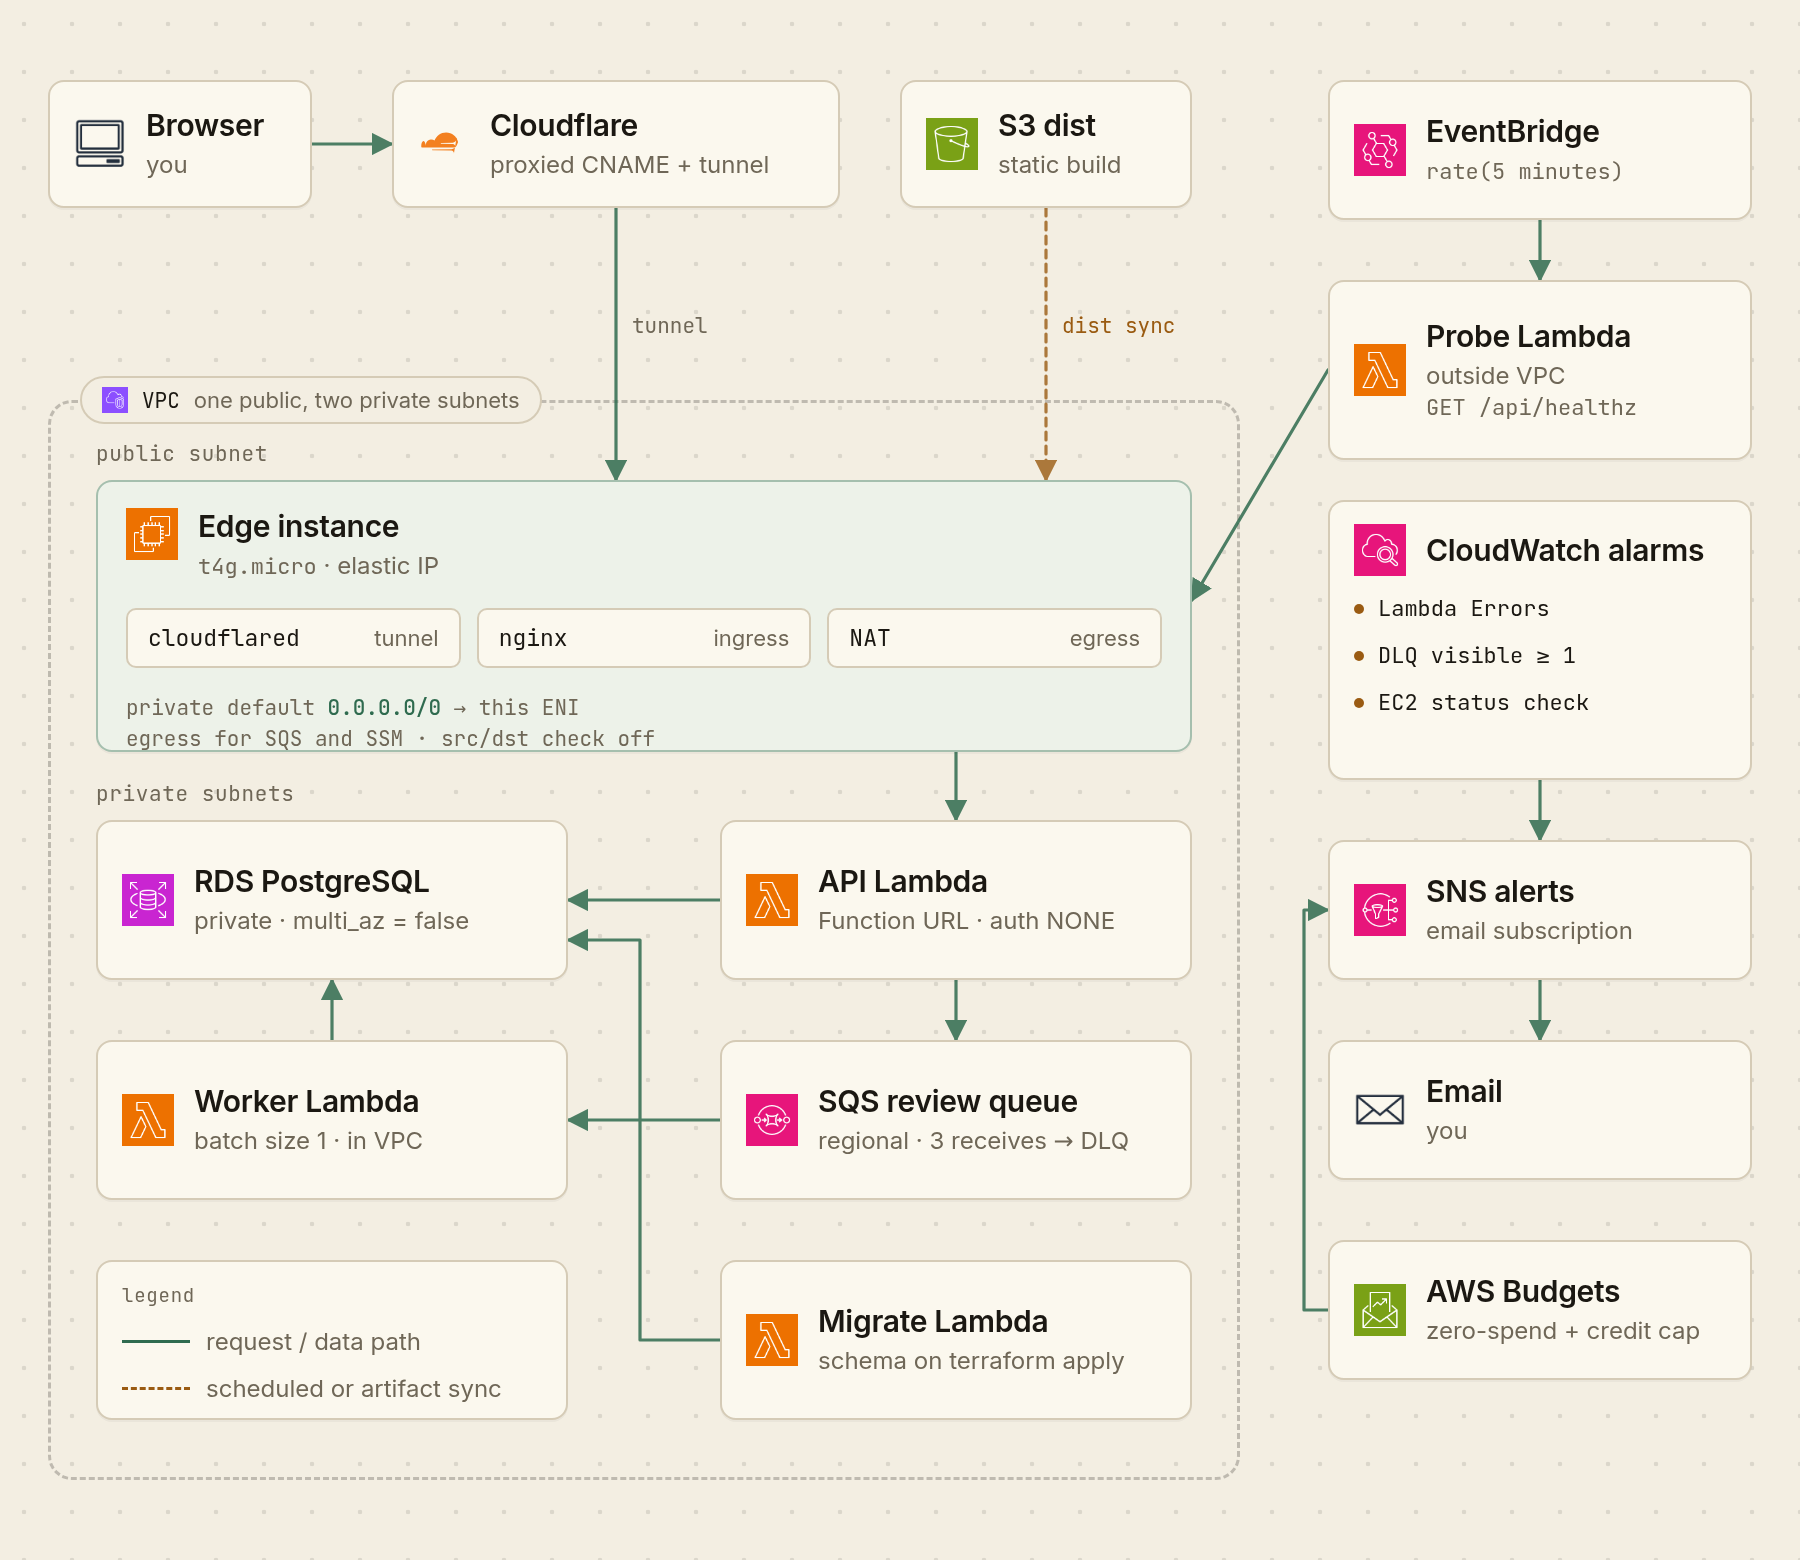
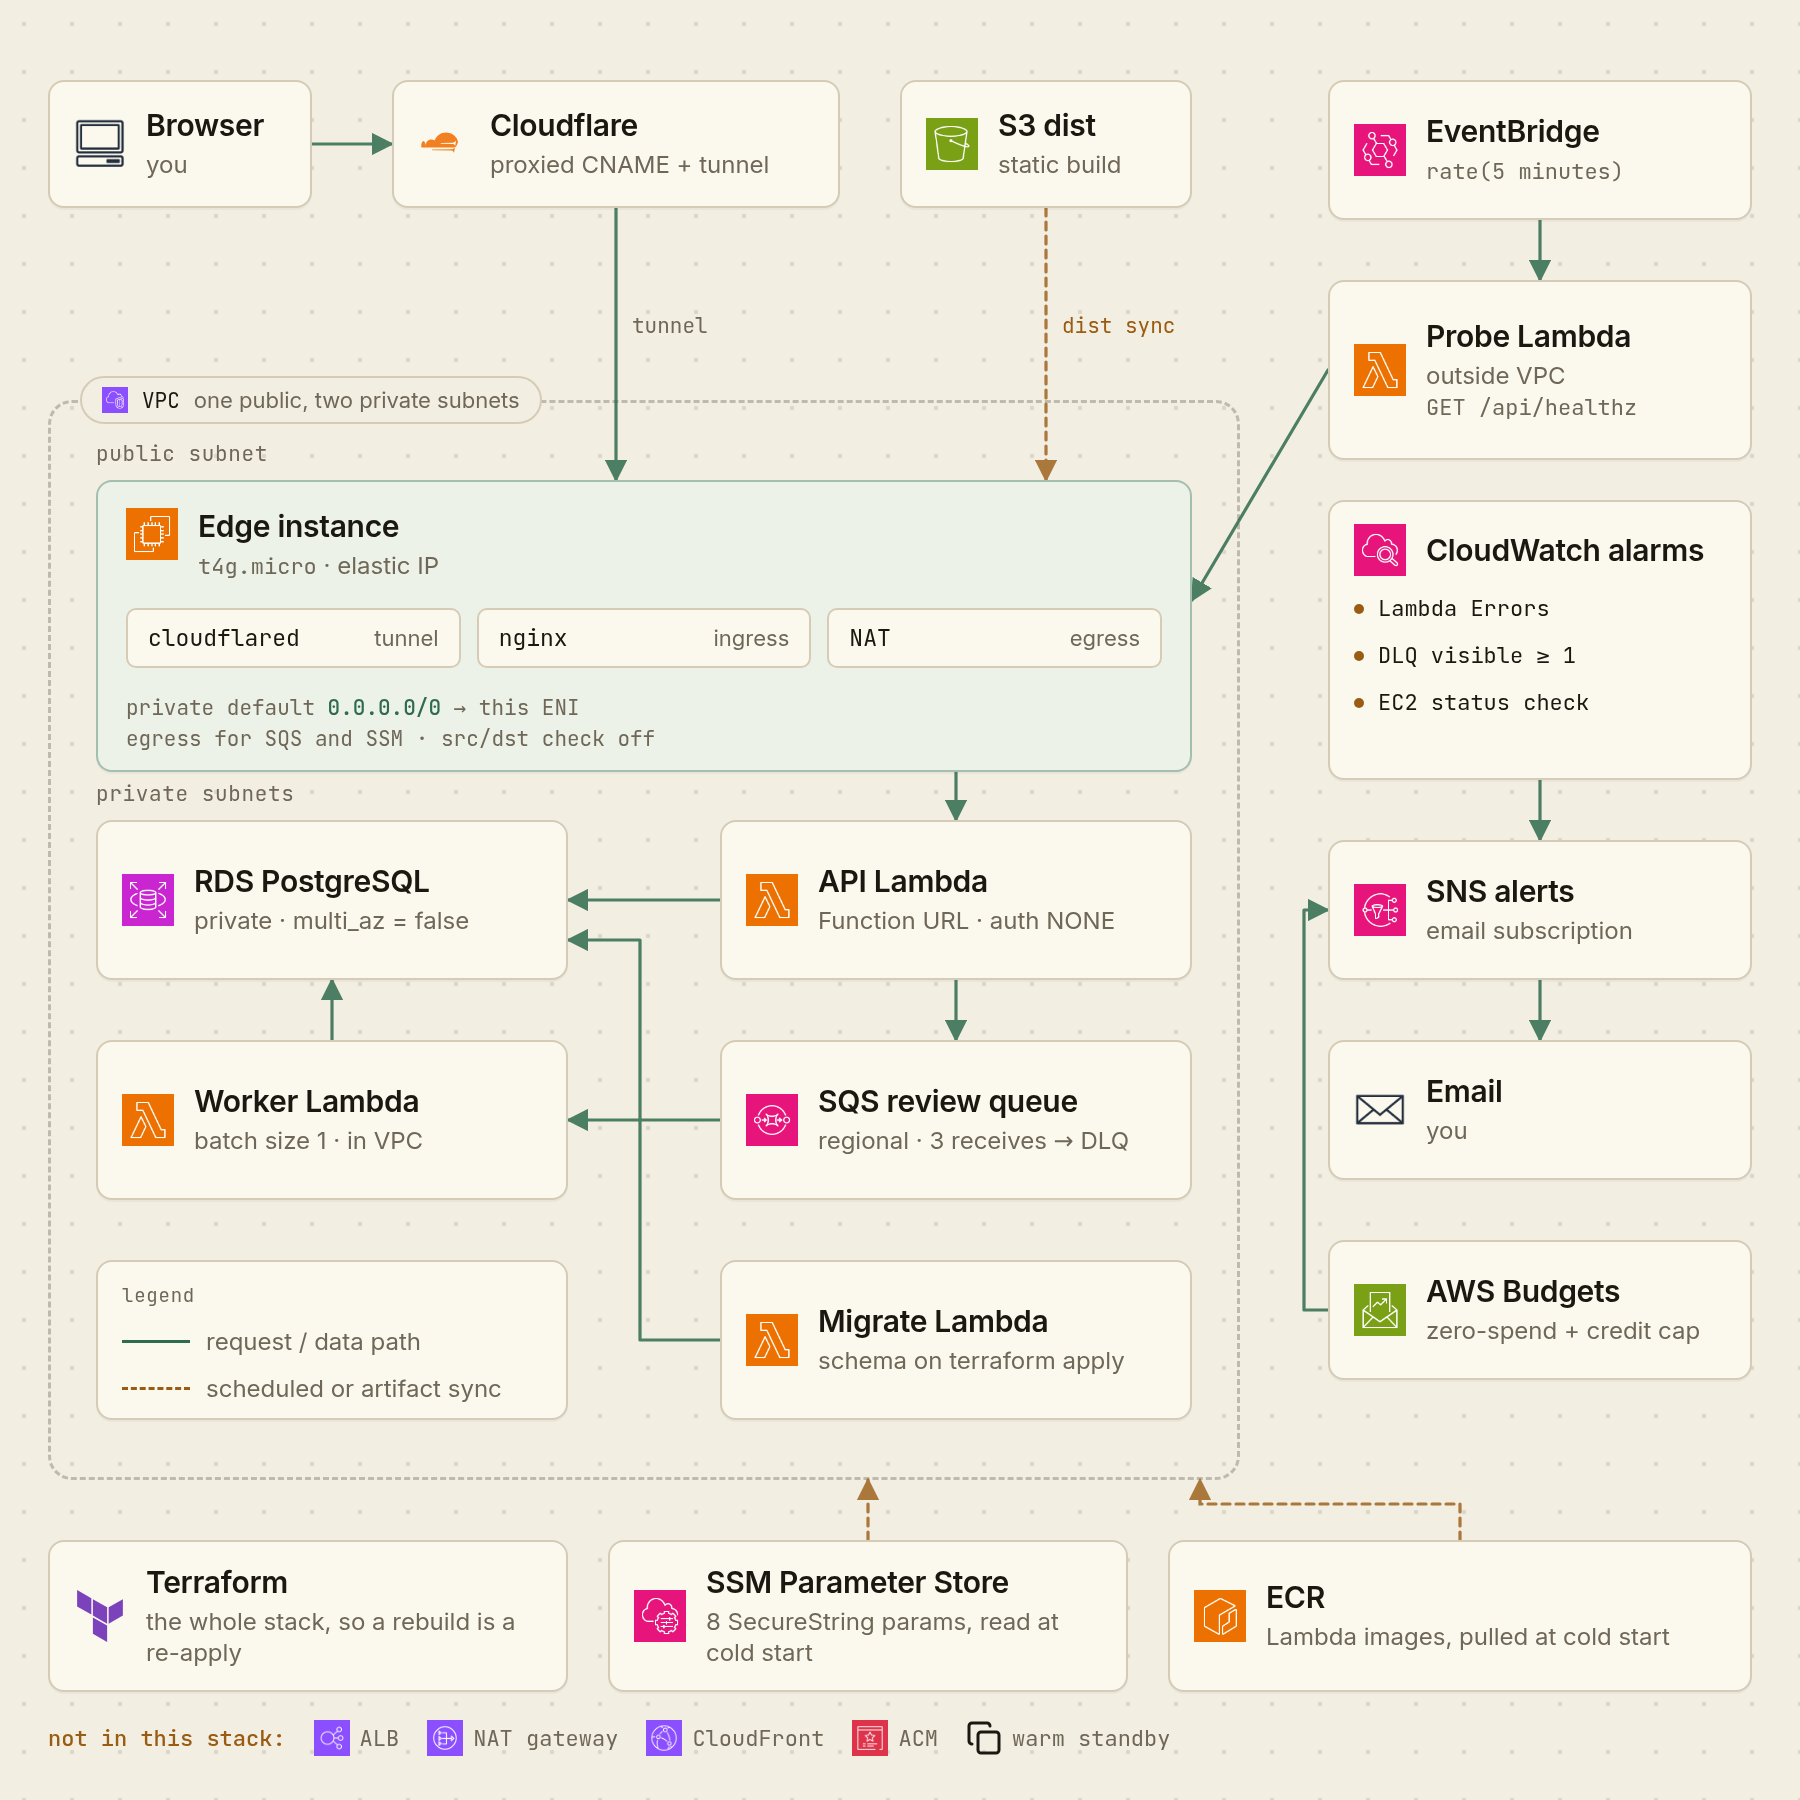
feat(diagrams): expand the serverless flow to every piece

diff --git a/frontend/scripts/diagrams/serverless-flow.html b/frontend/scripts/diagrams/serverless-flow.html
@@ -21,7 +21,7 @@
     #canvas {
         position: relative;
         width: 900px;
-        height: 780px;
+        height: 900px;
         overflow: hidden;
         background-color: var(--paper);
         background-image: radial-gradient(circle, rgba(27, 24, 18, 0.11) 1px, transparent 1.3px);
@@ -30,6 +30,20 @@
         color: var(--ink);
     }
     #wires { position: absolute; inset: 0; z-index: 1; }
+    .foot-note {
+        position: absolute;
+        left: 24px;
+        display: flex;
+        gap: 14px;
+        align-items: center;
+        font-family: "JetBrains Mono", "DejaVu Sans Mono", monospace;
+        font-size: 11px;
+        color: var(--muted);
+        z-index: 3;
+    }
+    .foot-note b { font-weight: 500; color: var(--amber); }
+    .foot-note img { width: 18px; height: 18px; }
+    .foot-note .off { display: flex; align-items: center; gap: 5px; }
     .vpc {
         position: absolute;
         left: 24px;
@@ -87,7 +101,7 @@
         left: 48px;
         top: 240px;
         width: 548px;
-        height: 136px;
+        height: 146px;
         display: block;
         padding: 13px 14px;
         background: #edf2e9;
@@ -153,7 +167,7 @@
 </head>
 <body>
 <div id="canvas">
-    <svg id="wires" viewBox="0 0 900 780" xmlns="http://www.w3.org/2000/svg">
+    <svg id="wires" viewBox="0 0 900 900" xmlns="http://www.w3.org/2000/svg">
         <defs>
             <marker id="arrow" viewBox="0 0 10 10" refX="9" refY="5" markerWidth="7" markerHeight="7" orient="auto-start-reverse">
                 <path d="M0,0 L10,5 L0,10 Z" fill="#2f6b4f" />
@@ -178,6 +192,8 @@
             <path d="M664,655 H652 V455 H664" marker-end="url(#arrow)" />
         </g>
         <path d="M523,104 V240" fill="none" stroke="#9a5b12" stroke-width="1.6" stroke-dasharray="4 3" stroke-linecap="round" opacity="0.8" marker-end="url(#arrow-amber)" />
+        <path d="M434,770 V740" fill="none" stroke="#9a5b12" stroke-width="1.6" stroke-dasharray="4 3" stroke-linecap="round" opacity="0.8" marker-end="url(#arrow-amber)" />
+        <path d="M730,770 V752 H600 V740" fill="none" stroke="#9a5b12" stroke-width="1.6" stroke-dasharray="4 3" stroke-linecap="round" opacity="0.8" marker-end="url(#arrow-amber)" />
     </svg>
 
     <div class="vpc"></div>
@@ -327,6 +343,39 @@
 
     <div class="label" style="left:316px; top:156px;">tunnel</div>
     <div class="label" style="left:531px; top:156px; color:#9a5b12;">dist sync</div>
+
+    <div class="node" style="left:24px; top:770px; width:260px; height:76px; align-items:center;">
+        <img src="icons/brands/terraform.svg" alt="" />
+        <div>
+            <div class="title">Terraform</div>
+            <div class="sub">the whole stack, so a rebuild is a re-apply</div>
+        </div>
+    </div>
+
+    <div class="node" style="left:304px; top:770px; width:260px; height:76px; align-items:center;">
+        <img src="icons/SSM.png" alt="" />
+        <div>
+            <div class="title">SSM Parameter Store</div>
+            <div class="sub">8 SecureString params, read at cold start</div>
+        </div>
+    </div>
+
+    <div class="node" style="left:584px; top:770px; width:292px; height:76px; align-items:center;">
+        <img src="icons/ECR.png" alt="" />
+        <div>
+            <div class="title">ECR</div>
+            <div class="sub">Lambda images, pulled at cold start</div>
+        </div>
+    </div>
+
+    <div class="foot-note" style="top:860px;">
+        <span><b>not in this stack:</b></span>
+        <span class="off"><img src="icons/ELB.png" alt="" />ALB</span>
+        <span class="off"><img src="icons/NAT.png" alt="" />NAT gateway</span>
+        <span class="off"><img src="icons/CloudFront.png" alt="" />CloudFront</span>
+        <span class="off"><img src="icons/CertificateManager.png" alt="" />ACM</span>
+        <span class="off"><img src="icons/line/copy.svg" alt="" />warm standby</span>
+    </div>
 </div>
 </body>
 </html>
